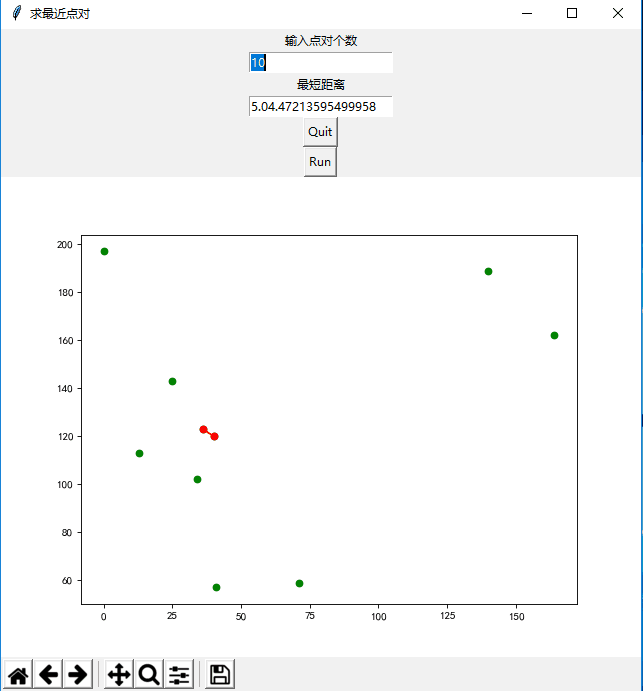
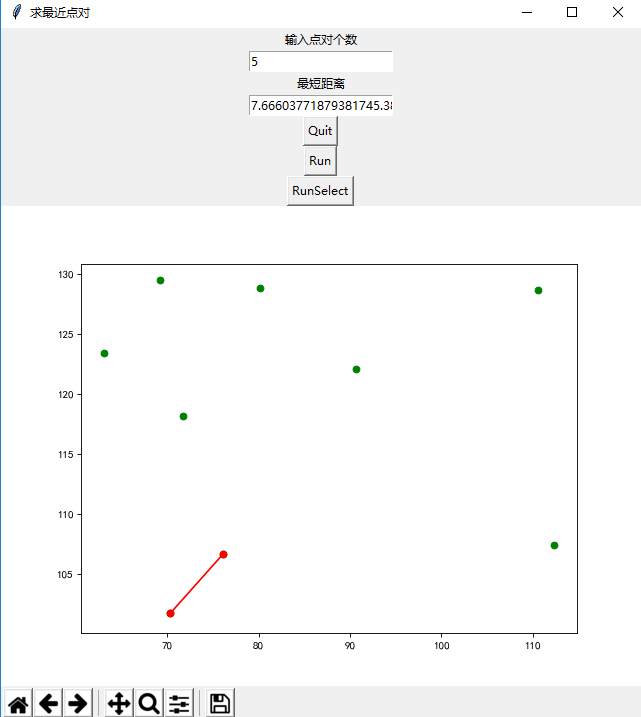
作业2完整版

diff --git a/hw2/hw2.tex b/hw2/hw2.tex
@@ -91,7 +91,6 @@
 递归的过程：当n<3时，采用暴力法，n>3时，根据n的大小将点对分为左右两个子集，对左右两个子集继续求解最小点对，并记录下来左右两个子集中更小的点对，以及其距离$\delta$。\\
 接下来需要处理最近点对一个在左子集，一个在右子集的情况，根据书上的证明可知,只需要考虑X坐标在$[mid-\delta, mid+\delta]$范围内的点即可。对于范围内的每个点，只需要考虑按Y排序后，后面5个点的距离即可，最后与之前的最小值相比，取最小值。复杂度为O(n)，这也解释了递推式后面合并解的复杂度为O(n)。同时只进行了2次预排序。
 
-
 \subsection{实验效果}
 
 首先介绍实验的实验环境。
@@ -158,16 +157,34 @@ CPU为AMD Ryzen 7 1700(3.0 GHz)，RAM 8G。\\
 
 界面展示采用Python实验，GUI的展示使用Python自带的tkinter模块，此外，使用matplotlib绘制散点图。代码的实现在closest\_points文件夹下的hw2\_GUI.py, 命令行下执行python hw2\_GUI.py即可执行。\\
 
-首先在代码中封装了From类，在构造函数中初始化了界面的不同的组件的相对位置：在上侧是两个label进行提示，两个Entry一个负责输入产生随机点对的个数，一个负责输出最近距离。再下面是两个Button，一个负责退出，一个负责执行算法。在下方是一张canvas的画布，将matplotlib输出的图形进行展示，此外还保留了工具栏，有放大、保存等功能。
+首先在代码中封装了From类，在构造函数中初始化了界面的不同的组件的相对位置：在上侧是两个label进行提示，两个Entry一个负责输入产生随机点对的个数，一个负责输出最近距离。再下面是三个Button，一个负责退出，一个负责执行算法，另一个负责选择完点之后，执行鼠标随机选点的寻找对近点对。在下方是一张canvas的画布，将matplotlib输出的图形进行展示，此外还保留了工具栏，有放大、保存等功能。
 在后面的逻辑中，根据输入框的数字，传递给算法的逻辑，产生相应的点对，调用分治法计算出最近点对和距离，最后在图上画出。\\
 
-实际项目运行效果如图(\ref{img1-4})：
+\textbf{随机生成：}\\
+在输入框中输入要随机生成的点对个数，点击Run即可得到最近点对。实际项目运行效果如图(\ref{img1-4})：
 
 \begin{figure}[H]
     \centering
     \includegraphics[width=1\textwidth]{img/1-4.png}
-    \caption{图形界面运行效果}
+    \caption{随机生成点运行效果}
     \label{img1-4}
+\end{figure}
+
+\textbf{鼠标选点：}\\
+在下方的画布中移动鼠标，左下角对显示鼠标悬停的位置的坐标值，点击鼠标可以进行选择，选择的点会在控制台输出(注意不要选到坐标轴以外的点)，如图(\ref{img1-6})。选点结束后点击第三个Button进行计算，实际演示如图(\ref{img1-5})
+
+\begin{figure}[H]
+    \centering
+    \includegraphics[width=1\textwidth]{img/1-5.png}
+    \caption{鼠标选点运行效果}
+    \label{img1-5}
+\end{figure}
+
+\begin{figure}[H]
+    \centering
+    \includegraphics[width=1\textwidth]{img/1-6.png}
+    \caption{命令行输出选点坐标}
+    \label{img1-6}
 \end{figure}
 
 %----------------------------------------------------------------------------------------

diff --git a/hw2/closest_points/hw2_GUI.py b/hw2/closest_points/hw2_GUI.py
@@ -12,14 +12,17 @@ import tkinter as tk
 #------------------------------------------------------------------------------------------
  
  
-mpl.rcParams['font.sans-serif'] = ['SimHei']  #中文显示
-mpl.rcParams['axes.unicode_minus']=False      #负号显示
+mpl.rcParams['font.sans-serif'] = ['SimHei']  # 中文显示
+mpl.rcParams['axes.unicode_minus']=False      # 负号显示
  
 class From:
     def __init__(self): 
-        self.root=tk.Tk()                    #创建主窗体
+        self.root=tk.Tk()                    # 创建主窗体
         self.root.title('求最近点对')
-        self.canvas=tk.Canvas()              #创建一块显示图形的画布
+        self.canvas=tk.Canvas()              # 创建一块显示图形的画布
+
+        self.select_pointX = []             # 手动选点的坐标
+        self.select_pointY = []
 
         labelInput = tk.Label(self.root, text="输入点对个数")
         labelInput.pack(side=TOP, fill=X, expand=YES)
@@ -40,10 +43,44 @@ class From:
         buttonRun = tk.Button(self.root, text='Run', command=self.drawPic)
         buttonRun.pack()
 
+        buttonRun = tk.Button(self.root, text='RunSelect', command=self.drawSelect)
+        buttonRun.pack()
+
         self.figure=self.create_matplotlib()    # 返回matplotlib所画图形的figure对象
         self.create_form(self.figure)           # 将figure显示在tkinter窗体上面
+        self.canvas.mpl_connect('button_press_event', self.onPress) # 处理鼠标点击事件
 
         self.root.mainloop()
+    
+    def onPress(self, event):
+        self.select_pointX.append(event.xdata)
+        self.select_pointY.append(event.ydata)
+        print("选取点坐标:" ,event.button,event.xdata, event.ydata)
+
+    # TODO 需要重构一下，跟下面函数重复
+    def drawSelect(self):
+
+        self.figure.clf()   # 需要清除上次的
+
+        #创建绘图对象f
+        f=plt.figure(num=2,figsize=(8,6),dpi=80,facecolor="white",edgecolor='green',frameon=True)
+        #创建一副子图
+        fig1=plt.subplot(1,1,1)
+        
+        fig1.scatter(self.select_pointX, self.select_pointY,color='green')    # 画随机点
+
+        minpair, mindist = Solution(0, self.select_pointX, self.select_pointY) # 第一个参数没用
+        
+        fig1.plot((minpair[0][0],minpair[1][0]), (minpair[0][1],minpair[1][1]), color = 'red')  # 画最近点的直线
+        fig1.scatter(minpair[0][0], minpair[0][1], color = 'red')
+        fig1.scatter(minpair[1][0], minpair[1][1], color = 'red')
+
+        self.entryOutput.insert(0, mindist)
+        self.select_pointX = [] # 每次画完之后清除
+        self.select_pointY = []
+
+        self.canvas.draw()  # 更改了图形之后，重新绘制
+
 
     def drawPic(self):
         self.figure.clf()   # 需要清除上次的
@@ -93,6 +130,7 @@ def randomPairs(pairNumbers):
 
     return AX, AY 
 
+# TODO 重构后pairNumbers没有用
 def Solution(pairNumbers, AX, AY):
 
     PairPointA = list(zip(AX, AY))  #一维数组到二维数组
